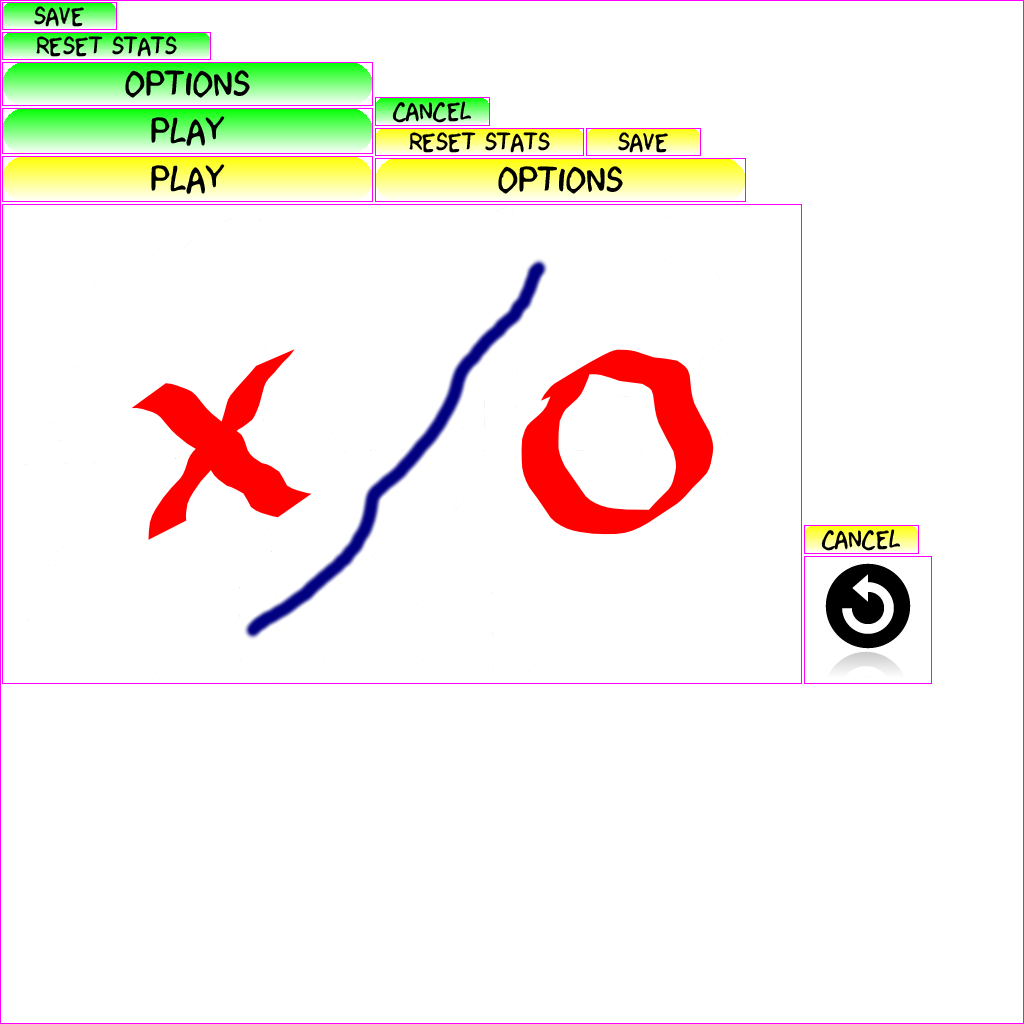
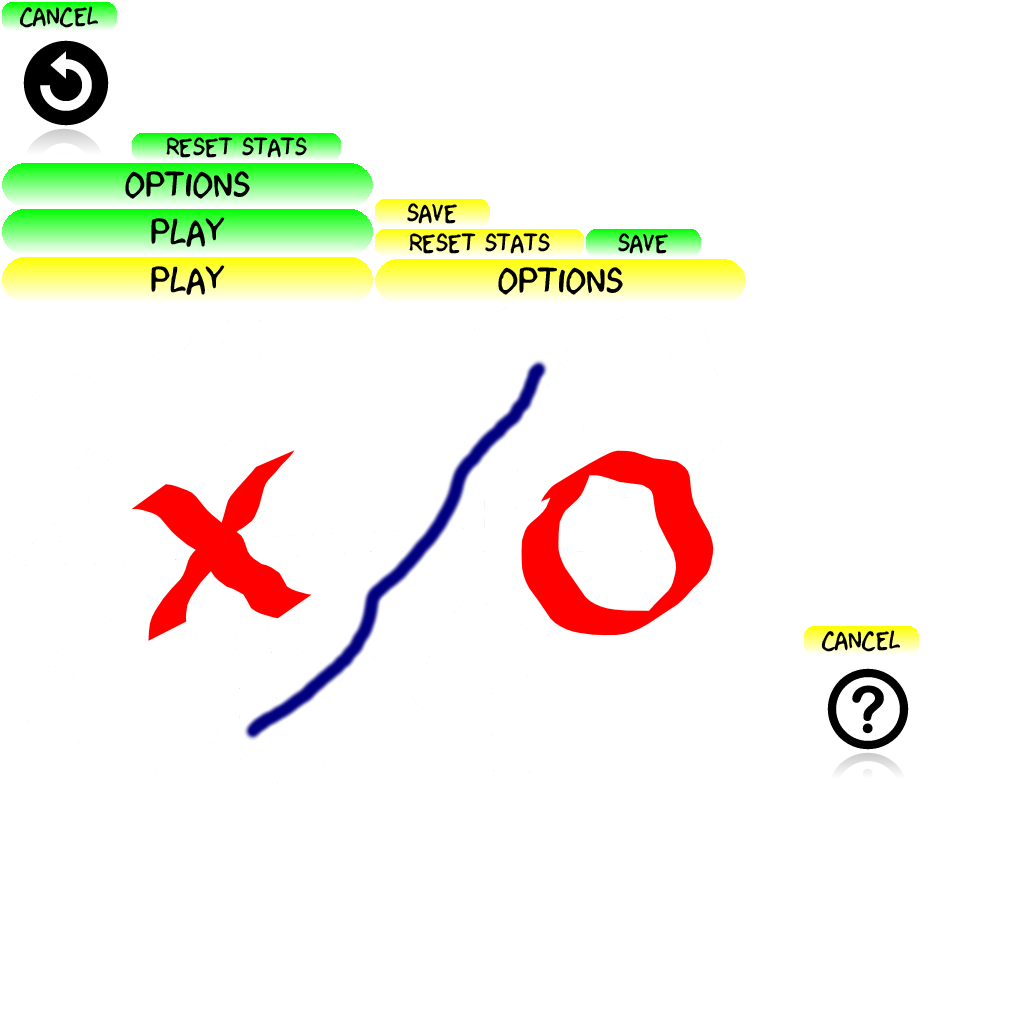
Added hint feature

Changed region(s): [[0.0, 0.0, 0.75, 0.7188], [0.4688, 0.3438, 0.7188, 0.625], [0.7812, 0.5, 0.9062, 0.75]]

diff --git a/core/src/wit/cgd/xando/screens/GameScreen.java b/core/src/wit/cgd/xando/screens/GameScreen.java
@@ -9,13 +9,12 @@ import com.badlogic.gdx.graphics.g2d.TextureAtlas;
 import com.badlogic.gdx.scenes.scene2d.Actor;
 import com.badlogic.gdx.scenes.scene2d.Stage;
 import com.badlogic.gdx.scenes.scene2d.ui.Button;
-import com.badlogic.gdx.scenes.scene2d.ui.Label;
 import com.badlogic.gdx.scenes.scene2d.ui.Skin;
 import com.badlogic.gdx.scenes.scene2d.ui.Stack;
 import com.badlogic.gdx.scenes.scene2d.ui.Table;
 import com.badlogic.gdx.scenes.scene2d.utils.ChangeListener;
-import com.badlogic.gdx.scenes.scene2d.utils.ChangeListener.ChangeEvent;
 
+import wit.cgd.xando.game.BasePlayer;
 import wit.cgd.xando.game.WorldController;
 import wit.cgd.xando.game.WorldRenderer;
 import wit.cgd.xando.game.util.Constants;
@@ -34,18 +33,17 @@ public class GameScreen extends AbstractGameScreen implements InputProcessor{
 	// MenuScreen widgets
 	private Button              undoButton;
 	private Button              hintButton;
-	private InputProcessor		undoProcessor;
-	private InputProcessor 		worldProcessor;
 
 	// debug
 	private final float         DEBUG_REBUILD_INTERVAL  = 5.0f;
 	private boolean             debugEnabled            = false;
 	private float               debugRebuildStage;
-
-	private InputProcessor GameScreen;
+	public enum Hint {WIN,BLOCK,RANDOM};
+	public Hint hint;
 
 	public GameScreen(Game game) {
 		super(game);
+		hint = null;
 	}
 
 	@Override
@@ -85,11 +83,11 @@ public class GameScreen extends AbstractGameScreen implements InputProcessor{
 		stack.setSize(Constants.VIEWPORT_GUI_WIDTH, Constants.VIEWPORT_GUI_HEIGHT);
 
 		// build all layers
-		stack.add(buildUndoLayer());
+		stack.add(buildUiLayer());
 
 	}
 
-	private Table buildUndoLayer(){
+	private Table buildUiLayer(){
 		Table table = new Table();
 		table.center().top();
 		table.row();
@@ -99,6 +97,15 @@ public class GameScreen extends AbstractGameScreen implements InputProcessor{
 			@Override
 			public void changed(ChangeEvent event, Actor actor) {
 				onUndoButtonClicked();
+			}
+		});
+
+		hintButton = new Button(skin, "hint");
+		table.add(hintButton).pad(Constants.BUTTON_PAD);
+		hintButton.addListener(new ChangeListener() {
+			@Override
+			public void changed(ChangeEvent event, Actor actor) {
+				onHintButtonClicked();
 			}
 		});
 		return table;
@@ -116,7 +123,7 @@ public class GameScreen extends AbstractGameScreen implements InputProcessor{
 		int col = pos%3;
 
 		boolean isEvenNumber = (worldController.board.cells[row][col] % 2 == 0) ? true: false;
-		
+
 		//go to the position that was last made and get number and add it back to the appropriate players list.
 		if((isEvenPlayer && isEvenNumber) || (!isEvenPlayer && !isEvenNumber)){
 			worldController.board.currentPlayer.numbers.add(worldController.board.cells[row][col]);
@@ -127,6 +134,46 @@ public class GameScreen extends AbstractGameScreen implements InputProcessor{
 		worldController.board.usedNumbers.remove(worldController.board.usedNumbers.indexOf(worldController.board.cells[row][col]));
 		//set this position back to 0 (i.e EMPTY)
 		worldController.board.cells[row][col] = worldController.board.EMPTY; //set this position back to 0 (i.e EMPTY)
+	}
+
+	//calculates and renders a hint on screen for the player.
+	private void onHintButtonClicked(){
+		//check your win
+		for(int r=0;r < 3; r++){
+			for(int c=0; c < 3; c++){
+				if(worldController.board.cells[r][c] == worldController.board.EMPTY && isWinningMove(worldController.board.currentPlayer,r,c)){
+					worldRenderer.renderWinHint = true;
+					return;
+				}
+			}
+		}
+
+		//check opponent win and block
+		for(int r=0;r < 3; r++){
+			for(int c=0; c < 3; c++){
+				if(worldController.board.cells[r][c] == worldController.board.EMPTY && isWinningMove(worldController.board.currentPlayer.opponent,r,c)){
+					worldRenderer.renderBlockHint = true;
+					return;
+				}
+			}
+		}
+
+		//make random move with random number if no other options.
+		worldRenderer.renderRandomHint = true;
+	}
+
+	//used to calculate hints for player.
+	public boolean isWinningMove(BasePlayer player,int row,int col){
+		//go for win with your current symbol,if its your player use winning num,otherwise block with random num.
+		for(Integer number : player.numbers){
+			worldController.board.cells[row][col] = number;
+			if(worldController.board.hasWon(number, row, col)){
+				worldController.board.cells[row][col] = worldController.board.EMPTY;
+				return true;
+			}
+		}
+		worldController.board.cells[row][col] = worldController.board.EMPTY;
+		return false;
 	}
 
 	@Override

diff --git a/core/src/wit/cgd/xando/game/WorldRenderer.java b/core/src/wit/cgd/xando/game/WorldRenderer.java
@@ -3,6 +3,7 @@ package wit.cgd.xando.game;
 import wit.cgd.xando.game.WorldController;
 import wit.cgd.xando.game.util.Constants;
 
+import com.badlogic.gdx.Gdx;
 import com.badlogic.gdx.graphics.OrthographicCamera;
 import com.badlogic.gdx.graphics.g2d.BitmapFont;
 import com.badlogic.gdx.graphics.g2d.SpriteBatch;
@@ -21,7 +22,10 @@ public class WorldRenderer implements Disposable {
 
 	private SpriteBatch			batch;
 	private WorldController		worldController;
-
+	public boolean				renderWinHint;
+	public boolean 				renderBlockHint;
+	public boolean				renderRandomHint;
+	public float 				renderHintTime;
 	public WorldRenderer(WorldController worldController) {
 		this.worldController = worldController;
 		init();
@@ -36,6 +40,10 @@ public class WorldRenderer implements Disposable {
 		cameraGUI.position.set(0, 0, 0);
 		cameraGUI.setToOrtho(true); // flip y-axis
 		cameraGUI.update();
+		renderWinHint = false;
+		renderBlockHint = false;
+		renderRandomHint = false;
+		renderHintTime = 3.0f;
 	}
 
 	public void resize(int width, int height) {
@@ -89,6 +97,53 @@ public class WorldRenderer implements Disposable {
 				message = "DRAW";
 			fontGameOver.draw(batch, message, x, y, 0, Align.center, true);
 			fontGameOver.setColor(1, 1, 1, 1);
+		}
+		
+		//check if hints need to be rendered.
+		if(renderWinHint && renderHintTime > 0){
+			renderHintTime -= Gdx.graphics.getDeltaTime();
+			if(renderHintTime <= 0){
+				renderHintTime = 3.0f;
+				renderWinHint = false;
+			}else{
+				float x = cameraGUI.viewportWidth / 2;
+				float y = cameraGUI.viewportHeight / 2;
+				BitmapFont fontWin = Assets.instance.fonts.defaultNormal;
+				fontWin.setColor(1, 0.75f, 0.25f, 1);
+				String message = "GO FOR THE WIN!";
+				fontWin.draw(batch, message, x, y, 0, Align.center, true);
+				fontWin.setColor(1, 1, 1, 1);
+			}
+		}
+		if(renderBlockHint && renderHintTime > 0){
+			renderHintTime -= Gdx.graphics.getDeltaTime();
+			if(renderHintTime <= 0){
+				renderHintTime = 3.0f;
+				renderBlockHint = false;
+			}else{
+				float x = cameraGUI.viewportWidth / 2;
+				float y = cameraGUI.viewportHeight / 2;
+				BitmapFont fontWin = Assets.instance.fonts.defaultNormal;
+				fontWin.setColor(1, 0.75f, 0.25f, 1);
+				String message = "GO FOR THE BLOCK!";
+				fontWin.draw(batch, message, x, y, 0, Align.center, true);
+				fontWin.setColor(1, 1, 1, 1);
+			}
+		}
+		if(renderRandomHint && renderHintTime > 0){
+			renderHintTime -= Gdx.graphics.getDeltaTime();
+			if(renderHintTime <= 0){
+				renderHintTime = 3.0f;
+				renderRandomHint = false;
+			}else{
+				float x = cameraGUI.viewportWidth / 2;
+				float y = cameraGUI.viewportHeight / 2;
+				BitmapFont fontWin = Assets.instance.fonts.defaultNormal;
+				fontWin.setColor(1, 0.75f, 0.25f, 1);
+				String message = "GO FOR A RANDOM MOVE!";
+				fontWin.draw(batch, message, x, y, 0, Align.center, true);
+				fontWin.setColor(1, 1, 1, 1);
+			}
 		}
 		batch.end();
 	}

diff --git a/core/src/wit/cgd/xando/game/Board.java b/core/src/wit/cgd/xando/game/Board.java
@@ -94,7 +94,6 @@ public class Board {
 		//can see if the player went or not,if size of the numbers list is still the same they never made a move.
 		int currentSize = currentPlayer.numbers.size();
 
-		System.out.println(" " + currentPlayer.human + " " + row + " " + col);
 		// store move
 		cells[row][col] = currentPlayer.currentNumber;		//change to the current players number.
 
@@ -104,16 +103,10 @@ public class Board {
 			usedNumbers.add(currentPlayer.currentNumber);
 			currentPlayer.removeUsedNumber(currentPlayer.currentNumber);
 
-			//add players move to the stack
+			//add players move to the stack (undo is controlled by GameScreen class,method 'onUndoButtonClicked')
 			moves.push(row*3+col);
-			System.out.println("Positions players have played\n" + moves);
 		}
-		
-		//show players numbers to choose from.
-		System.out.println(currentPlayer.numbers);
 
-		//show used numbers
-		System.out.println("Used Numbers" + usedNumbers);
 		System.out.print("Board:\n");
 		for (int r=0; r<3; r++)
 			for (int c=0; c<3; c++){

diff --git a/core/src/wit/cgd/xando/game/BasePlayer.java b/core/src/wit/cgd/xando/game/BasePlayer.java
@@ -70,20 +70,14 @@ public abstract class BasePlayer {
 	
 	//removes a number when used to avoid reusing numbers.
 	public void removeUsedNumber(int numberToRemove){
-		for(int number = 0; number < numbers.size();number++){
-			if(numbers.get(number) == numberToRemove)numbers.remove(number);
-			else continue;
-		}
+		numbers.remove(numbers.indexOf(numberToRemove));
 	}
 	
 	//make sure the number about to be used is an even num for EVEN and off for ODD.
 	public boolean checkValidNumber(int number){
 		return numbers.contains(number);
 	}
-	
-	public BasePlayer getOpponent(){
-		return opponent;
-	}
+		
 	public abstract int move ();
 	
 }

diff --git a/desktop/src/wit/cgd/xando/desktop/DesktopLauncher.java b/desktop/src/wit/cgd/xando/desktop/DesktopLauncher.java
@@ -8,8 +8,8 @@ import com.badlogic.gdx.tools.texturepacker.TexturePacker.Settings;
 import wit.cgd.xando.NumericalXandO;
 
 public class DesktopLauncher {
-	private static boolean  rebuildAtlas        = true;
-	private static boolean  drawDebugOutline    = true;
+	private static boolean  rebuildAtlas        = false;
+	private static boolean  drawDebugOutline    = false;
 	
 	public static void main (String[] arg) {
 		if (rebuildAtlas) {

diff --git a/core/src/wit/cgd/xando/game/WorldController.java b/core/src/wit/cgd/xando/game/WorldController.java
@@ -34,7 +34,7 @@ public class WorldController extends InputAdapter {
 	}
 
 	private void init() {
-		//Gdx.input.setInputProcessor(this);
+		//input processor handled in GameScreen using Multiplexer.
 		board = new Board();
 		if(prefs.firstPlayerHuman){
 			board.firstPlayer = new HumanPlayer(board,board.playerSymbol.EVEN);

diff --git a/core/src/wit/cgd/xando/game/ai/MinimaxPlayer.java b/core/src/wit/cgd/xando/game/ai/MinimaxPlayer.java
@@ -1,6 +1,5 @@
 package wit.cgd.xando.game.ai;
 
-import java.util.ArrayList;
 import java.util.List;
 import java.util.Random;
 
